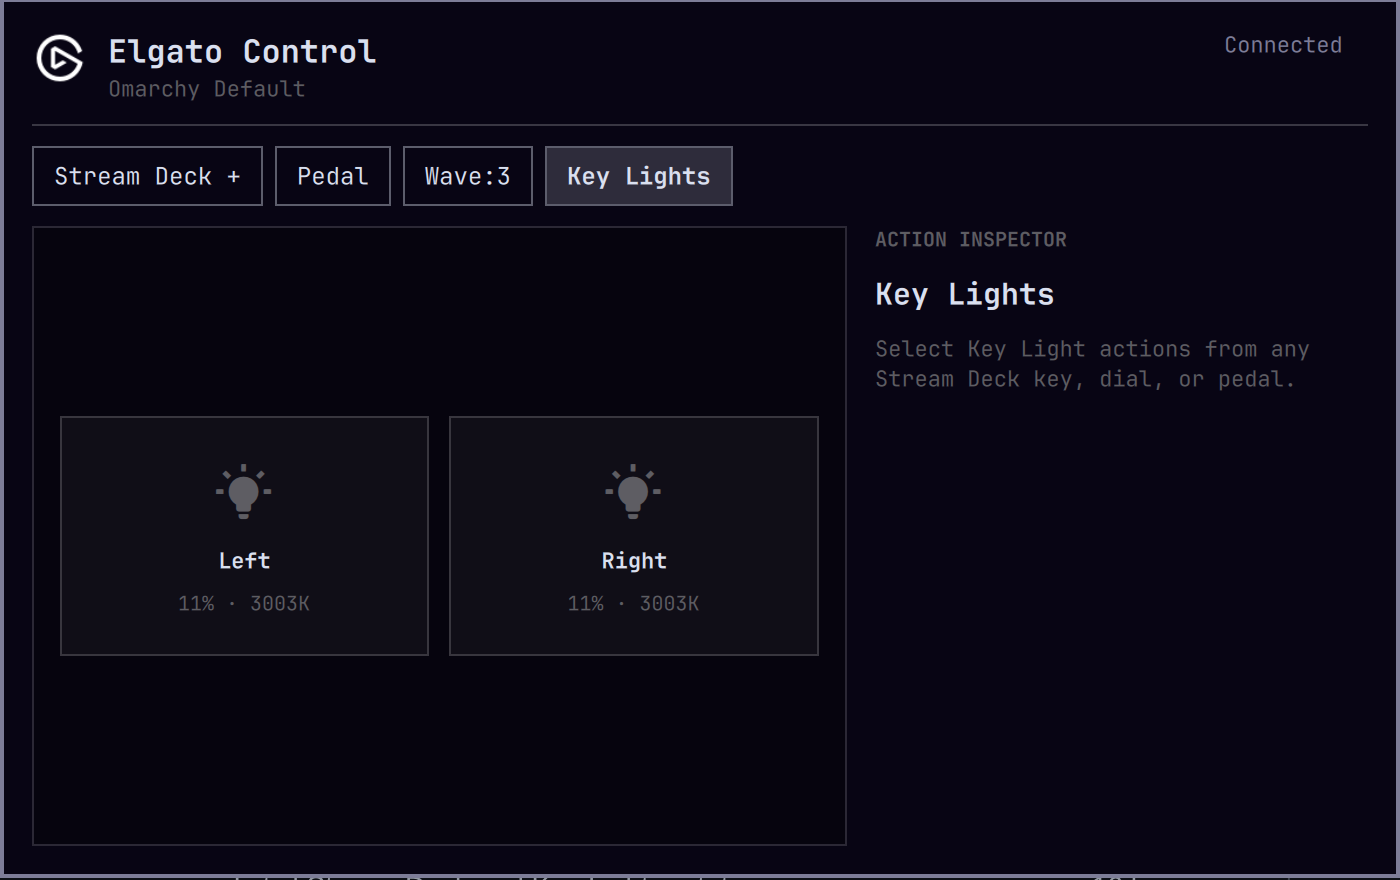
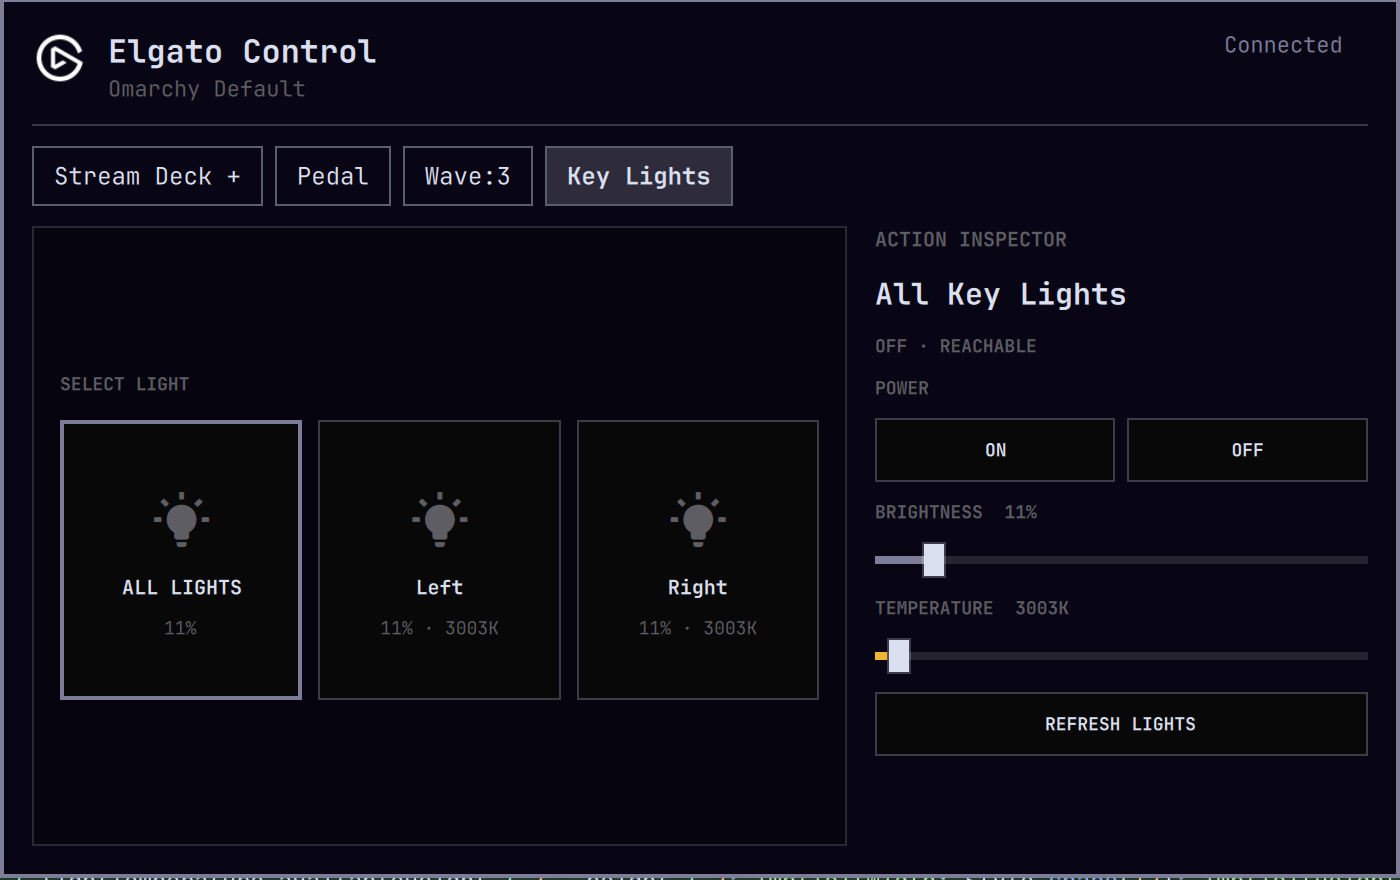
Complete Key Light controls

diff --git a/Panel.qml b/Panel.qml
@@ -1,4 +1,5 @@
 import QtQuick
+import QtQuick.Controls as Controls
 import Quickshell
 import Quickshell.Io
 import qs.Commons
@@ -25,6 +26,7 @@ Panel {
   property string selectedDevice: "streamdeck"
   property string selectedControl: "key"
   property int selectedIndex: 0
+  property int selectedLightIndex: -1
   readonly property color controlFace: "#080808"
   readonly property color controlFaceRaised: "#111111"
   readonly property color controlBorder: Qt.rgba(1, 1, 1, 0.22)
@@ -54,6 +56,29 @@ Panel {
   function waveAction(action) {
     waveProc.command = [root.helper, "wave", action]
     waveProc.running = true
+  }
+  function selectedLights() {
+    var lights = root.status.lights || []
+    return root.selectedLightIndex < 0 ? lights.filter(function(light) { return light.reachable }) : (lights[root.selectedLightIndex] ? [lights[root.selectedLightIndex]] : [])
+  }
+  function selectedLightName() {
+    if (root.selectedLightIndex < 0) return "All Key Lights"
+    return ((root.status.lights || [])[root.selectedLightIndex] || {}).name || "Key Light"
+  }
+  function selectedLightValue(field, fallback) {
+    var lights = selectedLights().filter(function(light) { return light.reachable && light[field] !== undefined })
+    if (lights.length === 0) return fallback
+    var total = 0
+    for (var i = 0; i < lights.length; i++) total += Number(lights[i][field])
+    return Math.round(total / lights.length)
+  }
+  function selectedLightReachable() { return selectedLights().some(function(light) { return light.reachable }) }
+  function selectedLightOn() { return selectedLights().some(function(light) { return light.reachable && light.on }) }
+  function lightAction(action, value) {
+    if (lightProc.running) return
+    lightProc.command = [root.helper, "lights", action, "--target", root.selectedLightIndex < 0 ? "all" : String(root.selectedLightIndex)]
+    if (value !== undefined) lightProc.command = lightProc.command.concat(["--value", String(Math.round(value))])
+    lightProc.running = true
   }
 
   function open() { root.controller.show(); refresh() }
@@ -98,6 +123,21 @@ Panel {
   }
   Process { id: saveProc; onExited: function() { root.refresh() } }
   Process { id: waveProc; onExited: function() { root.refresh() } }
+  Process {
+    id: lightProc
+    stdout: StdioCollector {
+      waitForEnd: true
+      onStreamFinished: {
+        try {
+          var next = Object.assign({}, root.status)
+          next.lights = JSON.parse(text)
+          root.status = next
+          root.error = ""
+        } catch (e) { root.refresh() }
+      }
+    }
+    onExited: function(code) { if (code !== 0) root.error = "Key Light control failed"; root.refresh() }
+  }
   Timer { interval: 1500; repeat: true; running: root.opened; triggeredOnStart: true; onTriggered: root.refresh() }
 
   KeyboardPanel {
@@ -140,7 +180,7 @@ Panel {
           width: parent.width
           options: root.deviceOptions
           value: root.selectedDevice
-          onChanged: function(value) { root.selectedDevice = value; root.selectedIndex = 0; root.selectedControl = value === "streamdeck" ? "key" : "pedal" }
+          onChanged: function(value) { root.selectedDevice = value; root.selectedIndex = 0; root.selectedLightIndex = -1; root.selectedControl = value === "streamdeck" ? "key" : value }
         }
 
         Row {
@@ -231,14 +271,32 @@ Panel {
               }
             }
 
-            Row {
-              visible: root.selectedDevice === "lights"; anchors.centerIn: parent; width: parent.width - Style.space(28); spacing: Style.space(10)
-              Repeater { model: root.status.lights || []
-                Rectangle { width: (parent.width - Style.space(10)) / Math.max(1, (root.status.lights || []).length); height: Style.space(120); radius: 0; color: modelData.on ? Qt.rgba(1, .72, .18, .18) : Qt.rgba(1, 1, 1, .04); border.color: modelData.on ? "#f0b632" : Qt.rgba(1, 1, 1, .2)
+            Column {
+              visible: root.selectedDevice === "lights"; anchors.centerIn: parent; width: parent.width - Style.space(28); spacing: Style.space(12)
+              Text { text: "SELECT LIGHT"; color: Color.muted; font.family: Style.font.family; font.pixelSize: 9; font.bold: true }
+              Row {
+                width: parent.width; spacing: Style.space(8)
+                Rectangle {
+                  width: (parent.width - Style.space(16)) / 3; height: Style.space(140); radius: 0; color: root.controlFace
+                  border.width: root.selectedLightIndex === -1 ? 2 : 1; border.color: root.selectedLightIndex === -1 ? Color.accent : root.controlBorder
                   Column { anchors.centerIn: parent; spacing: Style.space(7)
-                    Text { anchors.horizontalCenter: parent.horizontalCenter; text: ""; color: modelData.on ? "#f0b632" : Color.muted; font.family: Style.font.family; font.pixelSize: 30 }
-                    Text { anchors.horizontalCenter: parent.horizontalCenter; text: modelData.name; color: Color.foreground; font.family: Style.font.family; font.pixelSize: 11; font.bold: true }
-                    Text { anchors.horizontalCenter: parent.horizontalCenter; text: modelData.reachable ? modelData.brightness + "% · " + Math.round(1000000 / modelData.temperature) + "K" : "Unavailable"; color: Color.muted; font.family: Style.font.family; font.pixelSize: 10 }
+                    Text { anchors.horizontalCenter: parent.horizontalCenter; text: ""; color: root.selectedLightOn() ? "#f0b632" : Color.muted; font.family: Style.font.family; font.pixelSize: 30 }
+                    Text { anchors.horizontalCenter: parent.horizontalCenter; text: "ALL LIGHTS"; color: Color.foreground; font.family: Style.font.family; font.pixelSize: 10; font.bold: true }
+                    Text { anchors.horizontalCenter: parent.horizontalCenter; text: root.selectedLightReachable() ? root.selectedLightValue("brightness", 0) + "%" : "Unavailable"; color: Color.muted; font.family: Style.font.family; font.pixelSize: 9 }
+                  }
+                  MouseArea { anchors.fill: parent; cursorShape: Qt.PointingHandCursor; onClicked: root.selectedLightIndex = -1 }
+                }
+                Repeater { model: root.status.lights || []
+                  Rectangle {
+                    required property var modelData; required property int index
+                    width: (parent.width - Style.space(16)) / 3; height: Style.space(140); radius: 0; color: root.controlFace
+                    border.width: root.selectedLightIndex === index ? 2 : 1; border.color: root.selectedLightIndex === index ? Color.accent : root.controlBorder
+                    Column { anchors.centerIn: parent; width: parent.width - Style.space(8); spacing: Style.space(7)
+                      Text { anchors.horizontalCenter: parent.horizontalCenter; text: ""; color: modelData.on ? "#f0b632" : Color.muted; font.family: Style.font.family; font.pixelSize: 30 }
+                      Text { width: parent.width; horizontalAlignment: Text.AlignHCenter; elide: Text.ElideRight; text: modelData.name; color: Color.foreground; font.family: Style.font.family; font.pixelSize: 10; font.bold: true }
+                      Text { anchors.horizontalCenter: parent.horizontalCenter; text: modelData.reachable ? modelData.brightness + "% · " + Math.round(1000000 / modelData.temperature) + "K" : "Unavailable"; color: modelData.reachable ? Color.muted : Color.urgent; font.family: Style.font.family; font.pixelSize: 9 }
+                    }
+                    MouseArea { anchors.fill: parent; cursorShape: Qt.PointingHandCursor; onClicked: root.selectedLightIndex = index }
                   }
                 }
               }
@@ -249,7 +307,7 @@ Panel {
             width: parent.width * 0.39 - Style.space(14); spacing: Style.space(10)
             Text { text: "ACTION INSPECTOR"; color: Color.muted; font.family: Style.font.family; font.pixelSize: 10; font.bold: true }
             Text {
-              text: root.selectedDevice === "streamdeck" ? (root.selectedControl === "key" ? "Key " + (root.selectedIndex + 1) : "Dial " + (root.selectedIndex + 1)) : root.selectedDevice === "pedal" ? ["Left pedal", "Middle pedal", "Right pedal"][root.selectedIndex] : root.selectedDevice === "wave" ? "Wave:3" : "Key Lights"
+              text: root.selectedDevice === "streamdeck" ? (root.selectedControl === "key" ? "Key " + (root.selectedIndex + 1) : "Dial " + (root.selectedIndex + 1)) : root.selectedDevice === "pedal" ? ["Left pedal", "Middle pedal", "Right pedal"][root.selectedIndex] : root.selectedDevice === "wave" ? "Wave:3" : root.selectedLightName()
               color: Color.foreground; font.family: Style.font.family; font.pixelSize: 15; font.bold: true
             }
             Text { visible: root.selectedDevice === "streamdeck" || root.selectedDevice === "pedal"; width: parent.width; wrapMode: Text.WordWrap; text: "Choose an application, system function, or key. Changes apply immediately."; color: Color.muted; font.family: Style.font.family; font.pixelSize: 10 }
@@ -308,7 +366,41 @@ Panel {
                 MouseArea { anchors.fill: parent; cursorShape: Qt.PointingHandCursor; onClicked: root.waveAction("default") }
               }
             }
-            Text { visible: root.selectedDevice === "lights"; width: parent.width; wrapMode: Text.WordWrap; text: "Select Key Light actions from any Stream Deck key, dial, or pedal."; color: Color.muted; font.family: Style.font.family; font.pixelSize: 11 }
+            Column {
+              visible: root.selectedDevice === "lights"; width: parent.width; spacing: Style.space(9)
+              Text { text: root.selectedLightReachable() ? (root.selectedLightOn() ? "ON · REACHABLE" : "OFF · REACHABLE") : "UNAVAILABLE"; color: root.selectedLightReachable() ? (root.selectedLightOn() ? "#f0b632" : Color.muted) : Color.urgent; font.family: Style.font.family; font.pixelSize: 9; font.bold: true }
+              Text { text: "POWER"; color: Color.muted; font.family: Style.font.family; font.pixelSize: 9; font.bold: true }
+              Row { width: parent.width; spacing: Style.space(6)
+                Repeater { model: [{label:"ON",action:"on"},{label:"OFF",action:"off"}]
+                  Rectangle { required property var modelData; width: (parent.width - Style.space(6)) / 2; height: Style.space(32); radius: 0; color: root.controlFace; border.color: root.controlBorder; opacity: root.selectedLightReachable() ? 1 : .45
+                    Text { anchors.centerIn: parent; text: modelData.label; color: Color.foreground; font.family: Style.font.family; font.pixelSize: 9; font.bold: true }
+                    MouseArea { anchors.fill: parent; enabled: root.selectedLightReachable(); cursorShape: Qt.PointingHandCursor; onClicked: root.lightAction(modelData.action) }
+                  }
+                }
+              }
+              Text { text: "BRIGHTNESS  " + root.selectedLightValue("brightness", 0) + "%"; color: Color.muted; font.family: Style.font.family; font.pixelSize: 9; font.bold: true }
+              Controls.Slider {
+                id: lightBrightness; width: parent.width; from: 1; to: 100; stepSize: 1; value: root.selectedLightValue("brightness", 40); enabled: root.selectedLightReachable() && !lightProc.running
+                onPressedChanged: if (!pressed) root.lightAction("brightness", value)
+                background: Rectangle { x: lightBrightness.leftPadding; y: lightBrightness.topPadding + lightBrightness.availableHeight / 2 - height / 2; width: lightBrightness.availableWidth; height: Style.space(4); radius: 0; color: Qt.rgba(1,1,1,.12)
+                  Rectangle { width: lightBrightness.visualPosition * parent.width; height: parent.height; radius: 0; color: Color.accent }
+                }
+                handle: Rectangle { x: lightBrightness.leftPadding + lightBrightness.visualPosition * (lightBrightness.availableWidth - width); y: lightBrightness.topPadding + lightBrightness.availableHeight / 2 - height / 2; implicitWidth: Style.space(12); implicitHeight: Style.space(18); radius: 0; color: Color.foreground; border.color: root.controlBorder }
+              }
+              Text { text: "TEMPERATURE  " + Math.round(1000000 / root.selectedLightValue("temperature", 200)) + "K"; color: Color.muted; font.family: Style.font.family; font.pixelSize: 9; font.bold: true }
+              Controls.Slider {
+                id: lightTemperature; width: parent.width; from: 2900; to: 7000; stepSize: 100; value: Math.round(1000000 / root.selectedLightValue("temperature", 200)); enabled: root.selectedLightReachable() && !lightProc.running
+                onPressedChanged: if (!pressed) root.lightAction("temperature", value)
+                background: Rectangle { x: lightTemperature.leftPadding; y: lightTemperature.topPadding + lightTemperature.availableHeight / 2 - height / 2; width: lightTemperature.availableWidth; height: Style.space(4); radius: 0; color: Qt.rgba(1,1,1,.12)
+                  Rectangle { width: lightTemperature.visualPosition * parent.width; height: parent.height; radius: 0; color: "#f0b632" }
+                }
+                handle: Rectangle { x: lightTemperature.leftPadding + lightTemperature.visualPosition * (lightTemperature.availableWidth - width); y: lightTemperature.topPadding + lightTemperature.availableHeight / 2 - height / 2; implicitWidth: Style.space(12); implicitHeight: Style.space(18); radius: 0; color: Color.foreground; border.color: root.controlBorder }
+              }
+              Rectangle { width: parent.width; height: Style.space(32); radius: 0; color: root.controlFace; border.color: root.controlBorder
+                Text { anchors.centerIn: parent; text: lightProc.running ? "UPDATING…" : "REFRESH LIGHTS"; color: Color.foreground; font.family: Style.font.family; font.pixelSize: 9; font.bold: true }
+                MouseArea { anchors.fill: parent; enabled: !lightProc.running; cursorShape: Qt.PointingHandCursor; onClicked: root.lightAction("refresh") }
+              }
+            }
           }
         }
 

diff --git a/tests/test_streamdeck.py b/tests/test_streamdeck.py
@@ -131,6 +131,24 @@ class DeviceModelTests(unittest.TestCase):
             handler.redirect_request(request, None, 302, "Found", {}, "http://example.com/")
         caught.exception.close()
 
+    def test_individual_key_light_brightness_targets_only_selected_light(self):
+        lights = [{"host": "left.local"}, {"host": "right.local"}]
+        states = [{"reachable": True, "brightness": 40}, {"reachable": True, "brightness": 50}]
+        with mock.patch.object(module, "available_lights", return_value=lights), \
+             mock.patch.object(module, "light_states", side_effect=[states, states]), \
+             mock.patch.object(module, "light_request") as request:
+            module.control_lights("1", "brightness", 72)
+        request.assert_called_once_with(lights[1], {"brightness": 72, "on": 1})
+
+    def test_key_light_temperature_converts_kelvin_to_device_mireds(self):
+        lights = [{"host": "left.local"}]
+        states = [{"reachable": True, "temperature": 200}]
+        with mock.patch.object(module, "available_lights", return_value=lights), \
+             mock.patch.object(module, "light_states", side_effect=[states, states]), \
+             mock.patch.object(module, "light_request") as request:
+            module.control_lights("all", "temperature", 5000)
+        request.assert_called_once_with(lights[0], {"temperature": 200, "on": 1})
+
 
 class PedalParserTests(unittest.TestCase):
     def make_daemon(self):

diff --git a/README.md b/README.md
@@ -147,6 +147,11 @@ The default profile leaves this list empty so the repository does not publish
 device-specific network identities. Empty means automatic discovery; configured
 hosts override discovery when a network blocks mDNS.
 
+The Key Lights page provides direct grouped and per-light control. Select **All
+Lights** or an individual light, then switch power on or off, set brightness
+from 1–100%, set color temperature from 2900–7000K, or refresh discovery and
+status. Unreachable lights remain visible with their controls disabled.
+
 ## Wave:3 controls
 
 When a Wave:3 is detected, its device page exposes the hardware controls that

diff --git a/CHANGELOG.md b/CHANGELOG.md
@@ -10,6 +10,7 @@
 - Add VOXtype push-to-talk Pedal support.
 - Add native Wave:3 gain, mute, headphone, preset, and default-source controls.
 - Add automatic Key Light discovery and grouped light actions.
+- Add grouped and per-light power, brightness, temperature, refresh, and reachability controls to the Key Lights page.
 - Restrict Key Light HTTP traffic to resolved local addresses, reject redirects, and bound response sizes.
 - Add generated application artwork with safe non-blank fallbacks.
 - Add regression tests for device capabilities, input parsing, discovery, application actions, and Wave controls.
